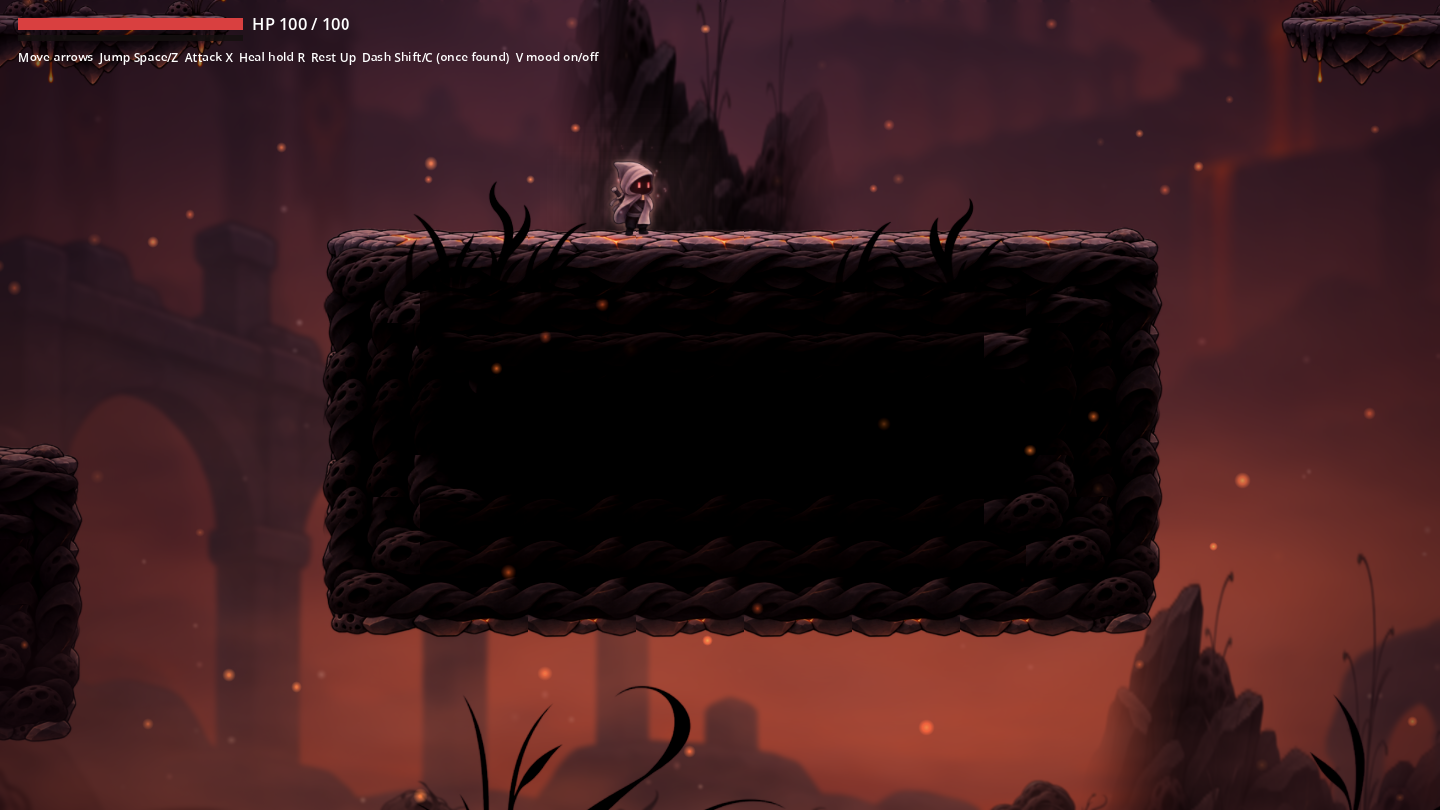
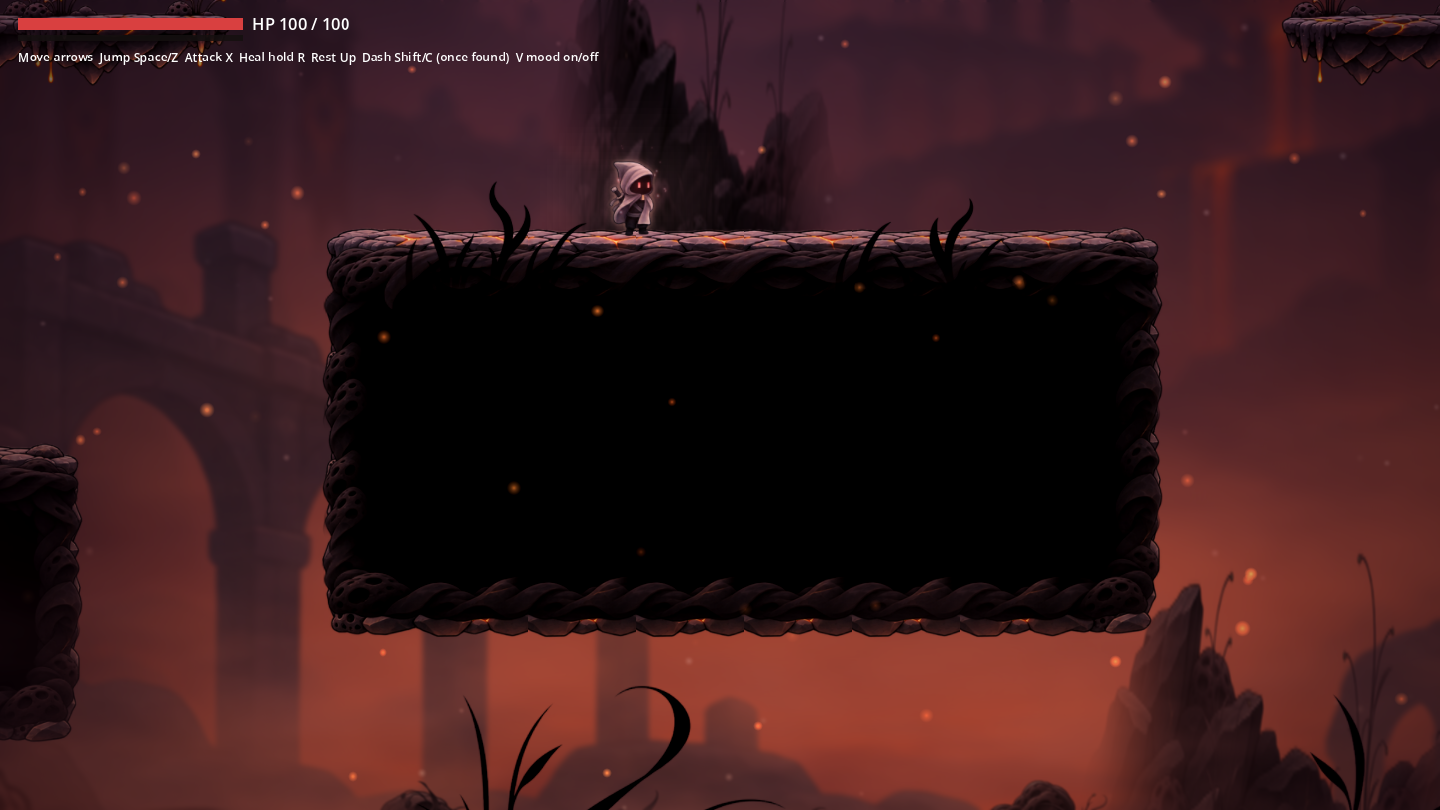
fix: drop the inner rings inside floating islands, keep them black
Owner: the smaller copies of the edge inside each island looked off. Islands keep
no textured wall fill: their painted edge around a black interior.

Story: design/levels/cinderheart-region-1.md

Claude-Session: https://claude.ai/code/session_01S7oES5N1xkGSV2ZhoVdSDe

diff --git a/design/levels/cinderheart-region-1.md b/design/levels/cinderheart-region-1.md
@@ -63,9 +63,9 @@ the editor) are covered in the game by painted rock that matches the walls aroun
 rock's edge, the textured fill, nothing behind it showing. Step into the fake wall and the
 cover fades out for the rest of the run.
 
-**Floating islands** get no textured wall fill. Their own edge is drawn again just inside
-them, twice, darker each time (where the island is thick enough), so each reads as a
-slightly smaller island inside itself; foliage grows on their tops.
+**Floating islands** get no textured wall fill: their painted edge around a black interior
+(inner rings of the edge were tried and dropped, owner 2026-11-23); foliage grows on their
+tops.
 
 **Bottom foreground**: the near rocks and plants sit along each whole stretch of floor
 (not broken up where islands change the ceiling height above it), rising a little in front
